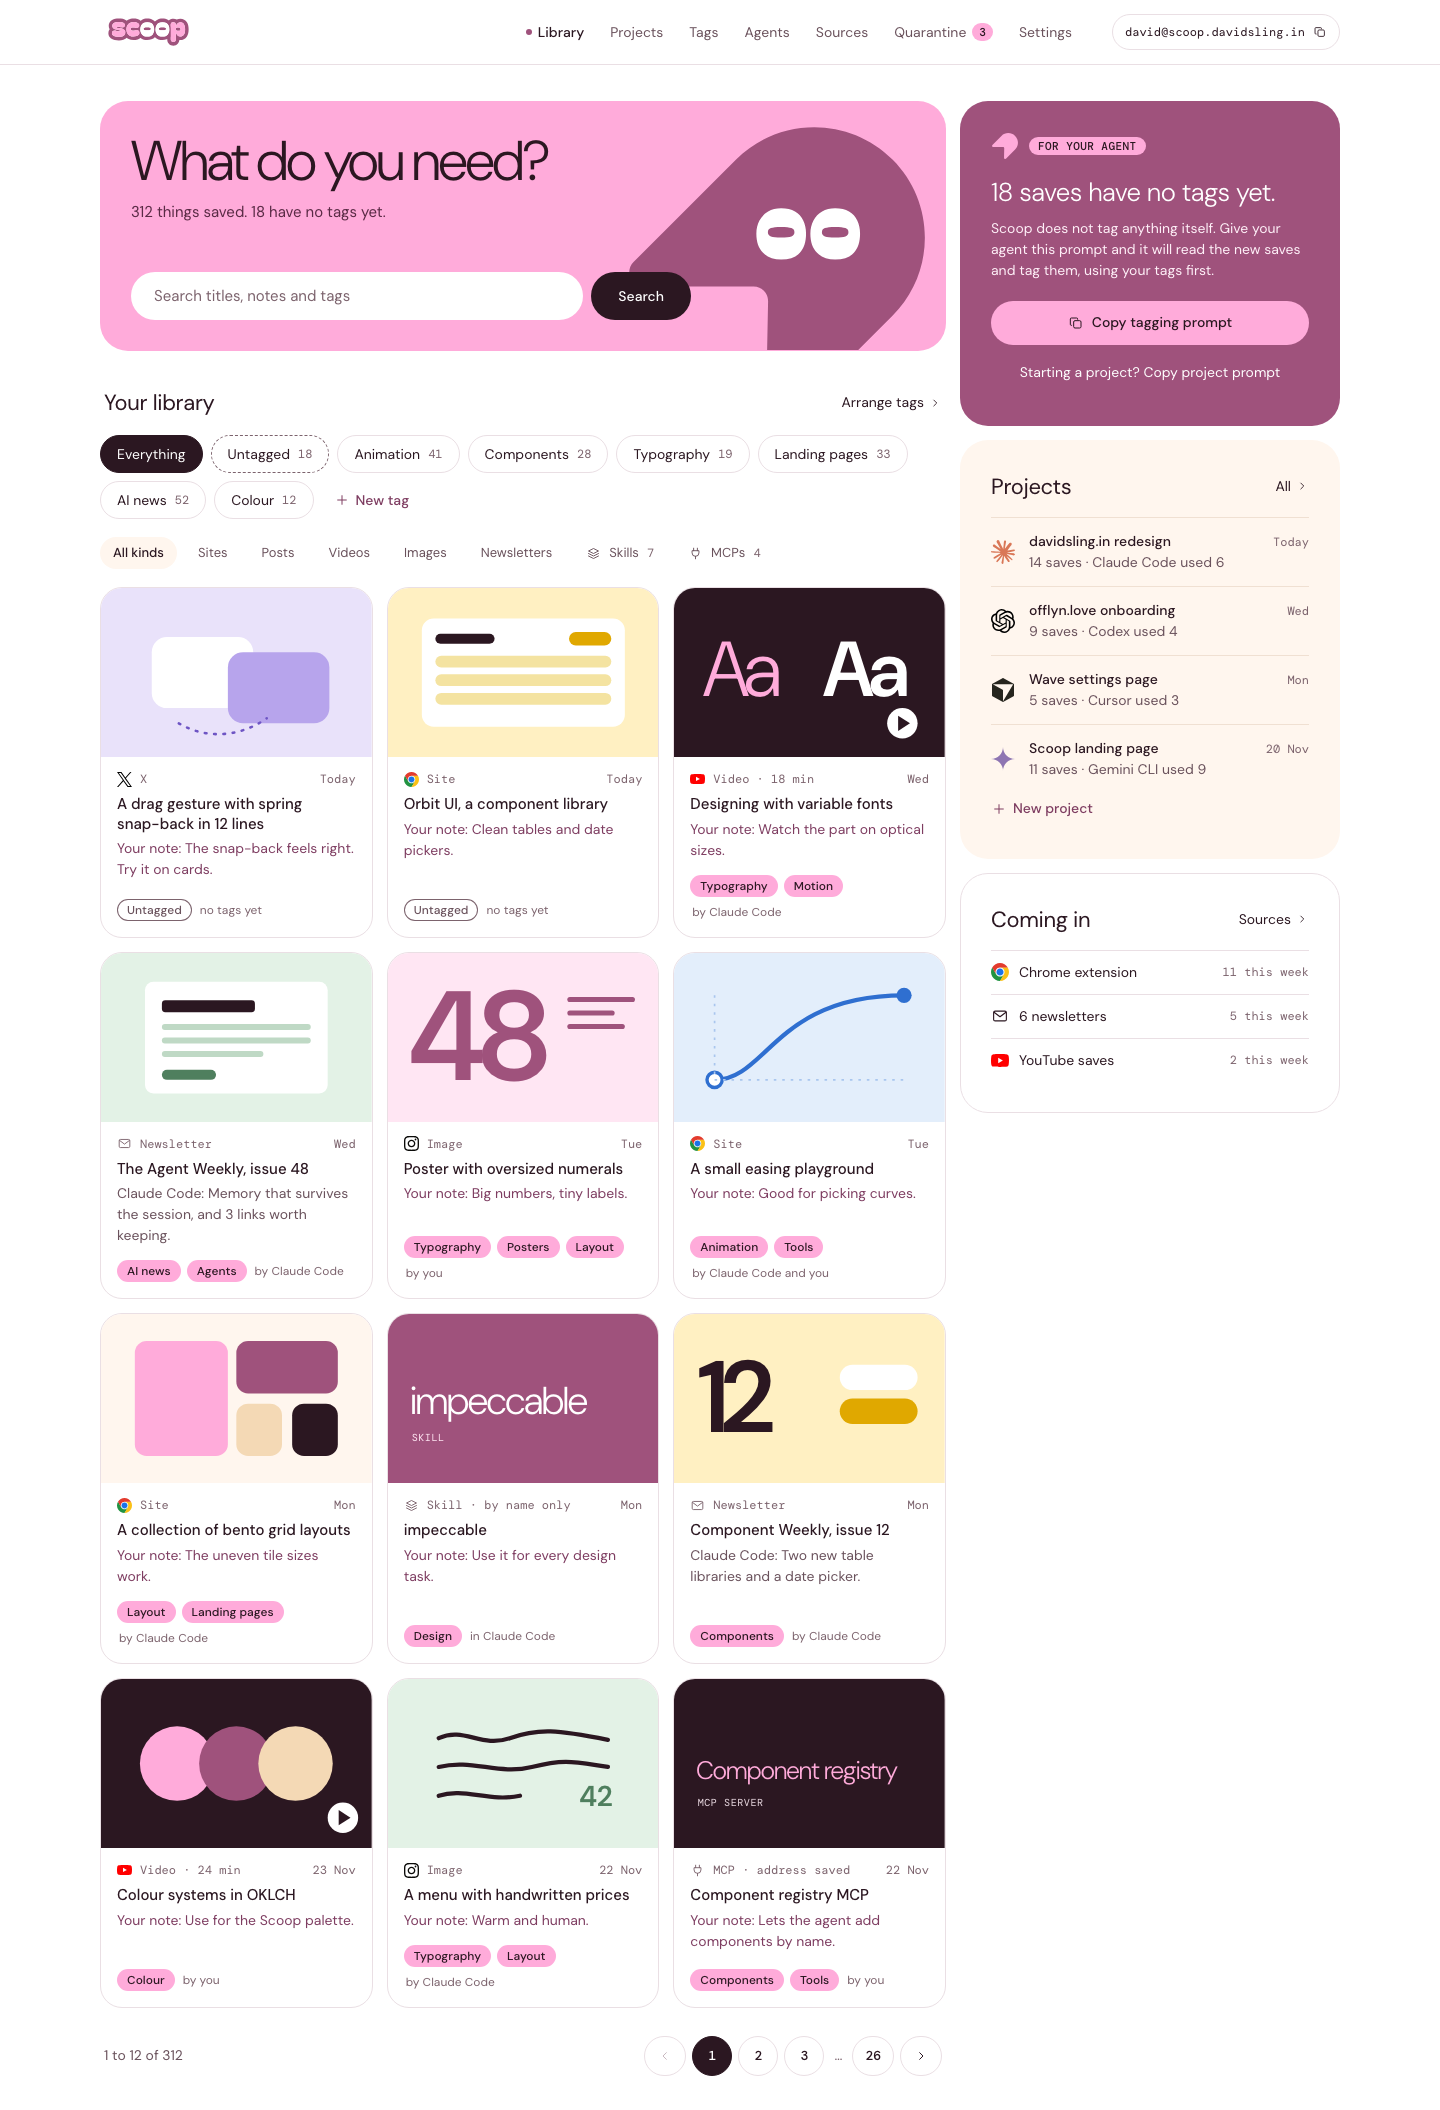
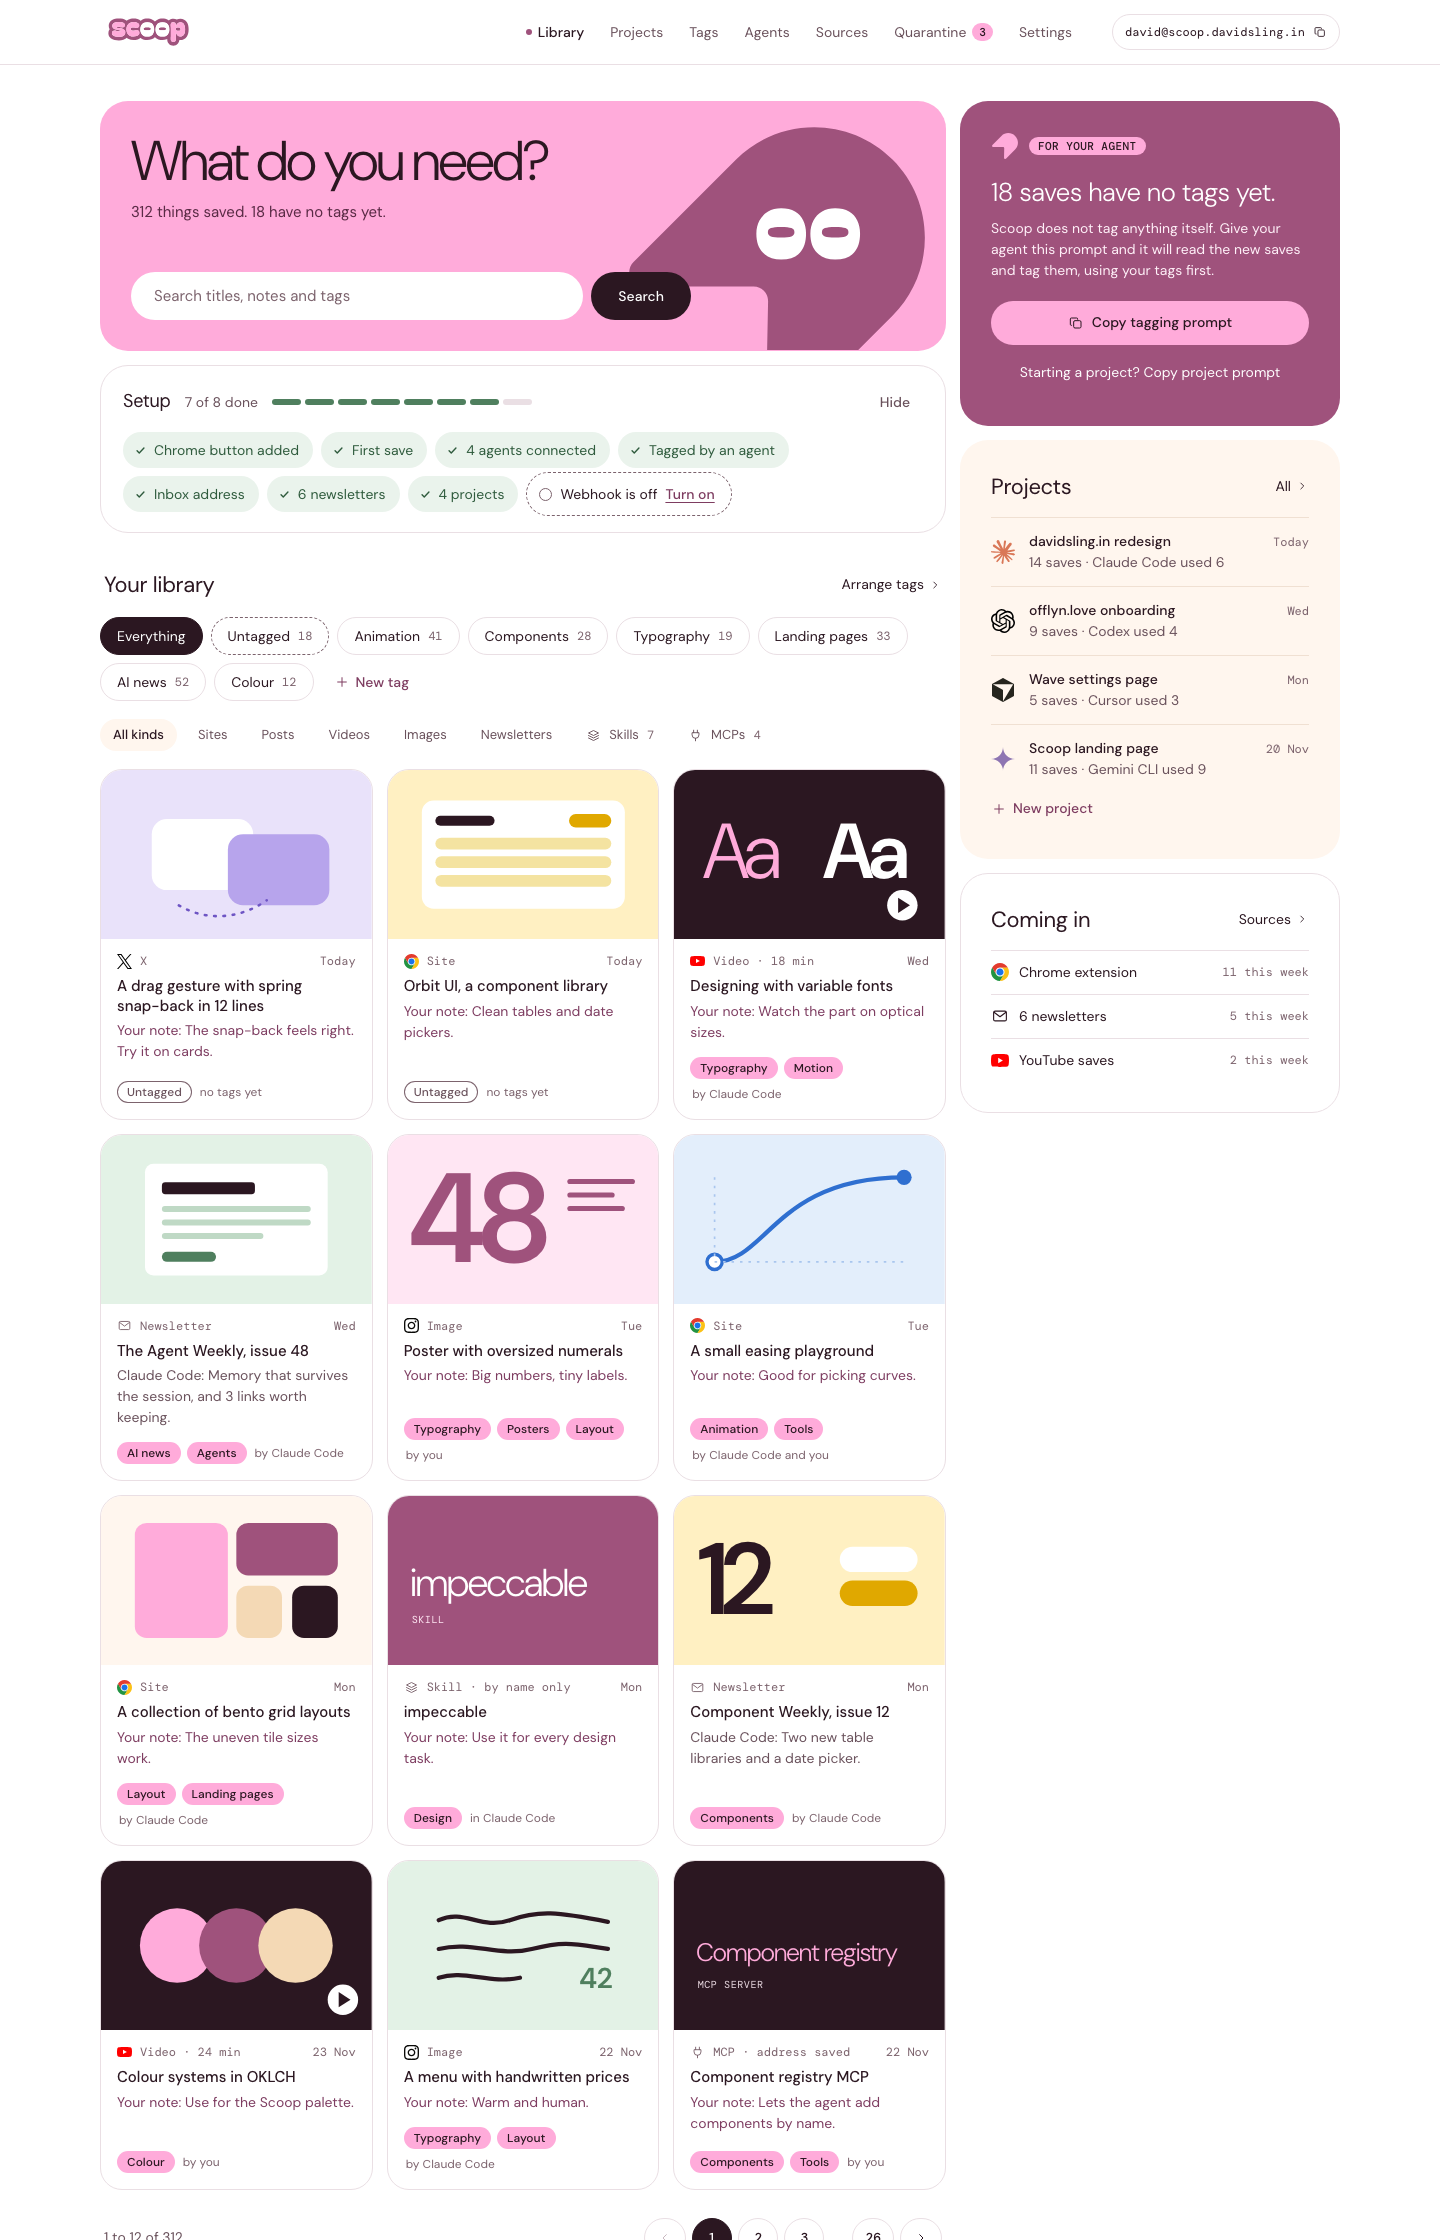
feat: show setup progress on the library home

diff --git a/mockups/dashboard.html b/mockups/dashboard.html
@@ -34,7 +34,7 @@
   <symbol id="i-clock" viewBox="0 0 24 24"><circle cx="12" cy="12" r="8.500"/><path d="M12 7.500V12l3 2"/></symbol>
   <symbol id="i-trash" viewBox="0 0 24 24"><path d="M4.500 7h15M9.500 7V4.500h5V7M6.500 7l1 12.500h9l1-12.500"/></symbol>
   <symbol id="i-flag" viewBox="0 0 24 24"><path d="M6 20.500v-16M6 5.500h11l-2.500 4 2.500 4H6"/></symbol>
-  <symbol id="i-chev" viewBox="0 0 24 24"><path d="m10 7 5 5-5 5"/></symbol>
+  <symbol id="i-tick" viewBox="0 0 24 24"><path d="m6.500 12.500 3.500 3.500 7.500-8" stroke-width="2.200"/></symbol><symbol id="i-chev" viewBox="0 0 24 24"><path d="m10 7 5 5-5 5"/></symbol>
 </svg>
 
 <header class="topbar"><div class="wrap">
@@ -64,6 +64,14 @@
           <button class="btn solid" type="submit">Search</button>
         </form>
       </header>
+
+      <section class="tile setupbar" aria-labelledby="su-h">
+        <div class="su-top"><h2 id="su-h">Setup</h2><span class="su-n">7 of 8 done</span><span class="su-bar" role="img" aria-label="7 of 8 done"><i class="on"></i><i class="on"></i><i class="on"></i><i class="on"></i><i class="on"></i><i class="on"></i><i class="on"></i><i></i></span><button class="btn text" type="button">Hide</button></div>
+        <ul class="su-list">
+          <li class="ok"><svg class="i"><use href="#i-tick"/></svg>Chrome button added</li><li class="ok"><svg class="i"><use href="#i-tick"/></svg>First save</li><li class="ok"><svg class="i"><use href="#i-tick"/></svg>4 agents connected</li><li class="ok"><svg class="i"><use href="#i-tick"/></svg>Tagged by an agent</li><li class="ok"><svg class="i"><use href="#i-tick"/></svg>Inbox address</li><li class="ok"><svg class="i"><use href="#i-tick"/></svg>6 newsletters</li><li class="ok"><svg class="i"><use href="#i-tick"/></svg>4 projects</li>
+          <li class="todo"><a href="sources.html"><span class="o"></span>Webhook is off<span class="go">Turn on</span></a></li>
+        </ul>
+      </section>
 
       <div class="rowhd"><h2>Your library</h2><a href="tags.html">Arrange tags<svg class="i"><use href="#i-chev"/></svg></a></div>
       <ul class="tags">

diff --git a/mockups/app.css b/mockups/app.css
@@ -269,3 +269,22 @@ h2 { margin: 0; font-size: 22px; line-height: 1.2; font-weight: 400; letter-spac
 .chip.plain { font: 500 12px/22px var(--sans); letter-spacing: 0; text-transform: none; padding: 0 10px; }
 .chip.wait { background: #FFE2B8; }
 .chip.ok { background: #DDEFE2; }
+
+/* Setup progress on the library home */
+.setupbar { padding: 18px 22px 20px; }
+.su-top { display: flex; align-items: center; gap: 14px; }
+.su-top h2 { font-size: 18px; }
+.su-n { color: var(--ink-2); }
+.su-bar { display: flex; gap: 4px; flex: 1; max-width: 260px; }
+.su-bar i { flex: 1; height: 6px; border-radius: 999px; background: var(--rule); }
+.su-bar i.on { background: var(--ok); }
+.su-top .btn { margin-left: auto; }
+.su-list { display: flex; flex-wrap: wrap; gap: 8px; list-style: none; margin: 12px 0 0; padding: 0; }
+.su-list li { display: inline-flex; align-items: center; }
+.su-list li.ok { gap: 6px; min-height: 36px; padding: 0 14px 0 10px; border-radius: 999px; background: #EAF3EC; color: #2F5B3D; }
+.su-list li.ok svg.i { width: 15px; height: 15px; }
+.su-list li.todo a { display: inline-flex; align-items: center; gap: 8px; min-height: 44px; margin: -4px 0; padding: 0 16px 0 12px; border: 1px dashed var(--ink-3); border-radius: 999px; transition: border-color 120ms var(--ease), background-color 120ms var(--ease); }
+.su-list li.todo a:hover { border-style: solid; border-color: var(--ink); }
+.su-list li.todo a:active { background: var(--cream); }
+.su-list .o { width: 13px; height: 13px; border-radius: 50%; border: 1.5px solid var(--ink-3); }
+.su-list .go { font-weight: 500; color: var(--mauve-deep); text-decoration: underline; text-underline-offset: 3px; }
